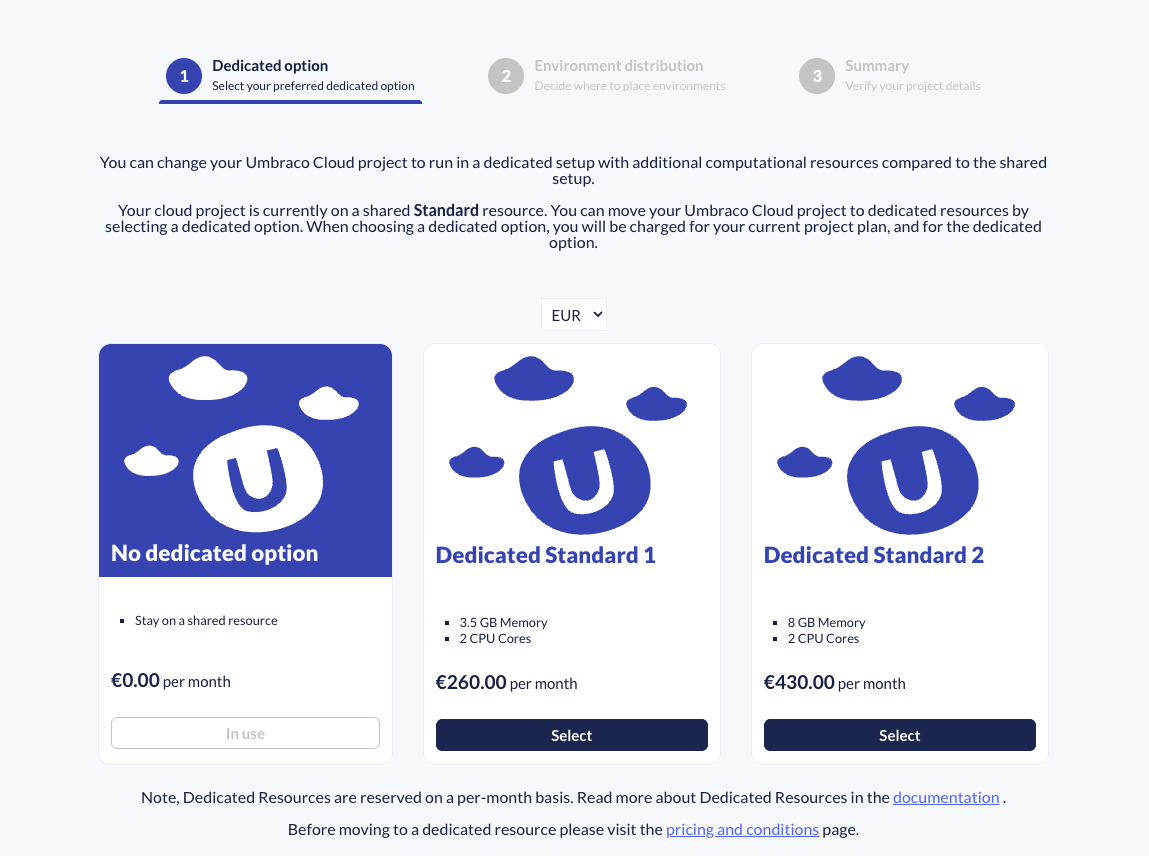
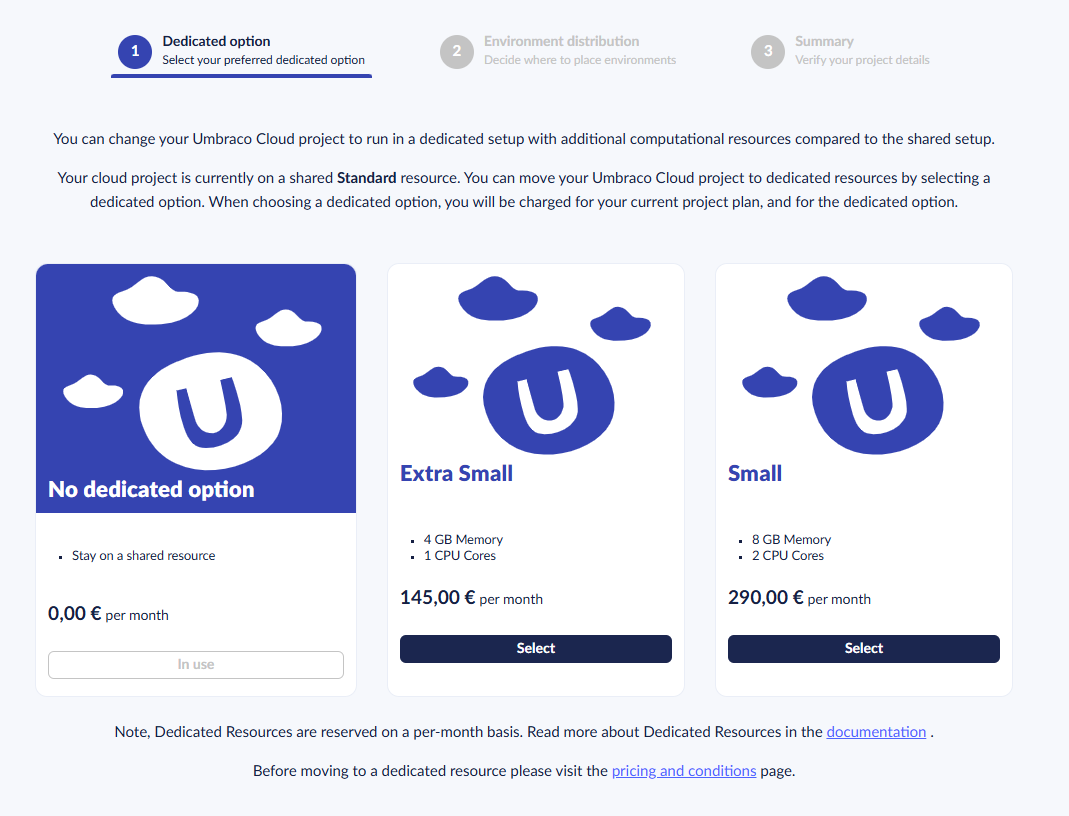
Cloud docs: Update dedicated resources plan availability and naming
Dedicated resources are now available on Starter, Standard, Professional,
and Enterprise. Link to the Umbraco Cloud scaling page for current options
and prices instead of listing them, and drop the old "Standard/Pro
Dedicated 1-3" names. Load balancing is available on all dedicated options
on Professional and Enterprise. Update the dedicated options screenshot.

diff --git a/umbraco-cloud/optimize-and-maintain-your-site/optimize-performance/load-balancing.md b/umbraco-cloud/optimize-and-maintain-your-site/optimize-performance/load-balancing.md
@@ -30,7 +30,7 @@ The Umbraco Cloud Portal checks these prerequisites automatically under `Project
 | Prerequisite | What it is | Learn more |
 | --- | --- | --- |
 | Payment plan | Load balancing is only available on projects with an **Invoiced** or **Credits** payment plan. | [Payments](../../begin-your-cloud-journey/the-cloud-portal/payments.md) |
-| Professional plan with a dedicated server | Load balancing runs on dedicated infrastructure, available from the **Professional Dedicated 1** plan and up. | [Dedicated Resources](../../build-and-customize-your-solution/set-up-your-project/project-settings/dedicated-resources.md) |
+| Professional or Enterprise plan with a dedicated server | Load balancing runs on dedicated infrastructure. It is available on all dedicated options on the **Professional** and **Enterprise** plans. | [Dedicated Resources](../../build-and-customize-your-solution/set-up-your-project/project-settings/dedicated-resources.md) |
 | Environment alone on a dedicated server | Load balancing scales every site on the server. The environment must be the only one on its dedicated server. | [Dedicated Resources](../../build-and-customize-your-solution/set-up-your-project/project-settings/dedicated-resources.md) |
 | Umbraco CMS **17.5.0** or higher | The base Umbraco CMS package meets the minimum supported version. | [Minor Upgrades](../manage-product-upgrades/product-upgrades/minor-upgrades.md) |
 | Umbraco.Cloud.Cms **17.2.0** or higher | The Umbraco Cloud CMS package meets the minimum supported version. | [Minor Upgrades](../manage-product-upgrades/product-upgrades/minor-upgrades.md) |
@@ -67,7 +67,7 @@ Load-balanced environments currently have sticky sessions enabled. Each visitor 
 
 ## Cache Configuration by Cloud Plan
 
-Load balancing is available on **Professional** plans with a dedicated server, from **Professional Dedicated 1** and up. It is not available on Starter, Standard, or shared Professional plans. If you need load balancing on a smaller plan, contact Umbraco Support to discuss upgrade paths.
+Load balancing is available on **Professional** and **Enterprise** plans with a dedicated server, on all dedicated options. It is not available on Starter, Standard, or shared Professional plans. If you need load balancing on a smaller plan, contact Umbraco Support to discuss upgrade paths.
 
 Each load-balanced environment runs against a managed Redis instance. Redis acts as the SignalR backplane and the distributed cache that keeps state consistent across all running instances. If the environment does not already have Cache enabled, Umbraco Cloud provisions a managed Redis cache as part of enabling load balancing — see [Cache Configuration](cache-configuration.md).
 
@@ -75,11 +75,9 @@ Umbraco CMS uses Microsoft's HybridCache for its distributed cache. See the [Hyb
 
 When you enable load balancing, Umbraco Cloud selects a Redis Stock Keeping Unit (SKU) automatically based on your plan. All eligible plans include High Availability (HA) and a Service Level Agreement (SLA) on the Redis instance.
 
-| Plan            | Default Redis SKU | High Availability |
-| --------------- | ----------------- | ----------------- |
-| Pro Dedicated 1 | Small+            | ✅                 |
-| Pro Dedicated 2 | Small+            | ✅                 |
-| Pro Dedicated 3 | Small+            | ✅                 |
+| Plan                                              | Default Redis SKU | High Availability |
+| ------------------------------------------------- | ----------------- | ----------------- |
+| Professional or Enterprise (any dedicated option) | Small+            | ✅                 |
 
 For the full list of available Redis SKUs and how to choose one, see [Cache Configuration](cache-configuration.md).
 

diff --git a/umbraco-cloud/build-and-customize-your-solution/set-up-your-project/project-settings/dedicated-resources.md b/umbraco-cloud/build-and-customize-your-solution/set-up-your-project/project-settings/dedicated-resources.md
@@ -8,7 +8,7 @@ In this article, you can read about how to move your Umbraco Cloud project to de
 
 Before you decide to move your Umbraco Cloud project, you need to consider a few things:
 
-* Umbraco Cloud offers dedicated resources for Standard and Professional plans. You can choose between two dedicated options for a Standard plan project and three dedicated options for a Professional plan project.
+* Umbraco Cloud offers dedicated resources on the Starter, Standard, Professional, and Enterprise plans. The dedicated options available depend on your plan. For the current options and prices per plan, see the [Umbraco Cloud scaling](https://umbraco.com/products/umbraco-cloud/umbraco-cloud-scaling/) page.
 * Moving from a shared resource to a dedicated resource will change the outgoing IP of the project. If your solution has an external service that requires whitelisting the outgoing IP, we advise you to enable the static outbound IP feature for your project and share that static outbound IP address with the third party. The static outbound IP address will not change when moving from a shared resource to a dedicated resource. For more info on static lease, visit the documentation for [external services](../../../expand-your-projects-capabilities/external-services/).
 
 ## How to move from shared to dedicated
@@ -20,7 +20,7 @@ The first step in moving to a dedicated resource is to access your project in th
 
 <figure><img src="../../../.gitbook/assets/image (10).png" alt="Dedicated resources"><figcaption><p>Dedicated resources</p></figcaption></figure>
 
-* There are currently three dedicated options to choose from for the Professional plan and two dedicated options for the Standard plan. For each of the dedicated options, you will find its name, the memory and CPU cores, and the price per month.
+* Choose from the dedicated options available on your plan. For each dedicated option, you will find its name, the memory and CPU cores, and the price per month.
 
 <figure><img src="../../../.gitbook/assets/Dedicated_Options_Standard.png" alt="Dedicated plan options for Standard plan"><figcaption><p>Dedicated plan options (Standard plan)</p></figcaption></figure>
 
@@ -32,9 +32,7 @@ Are you moving your Cloud project to a dedicated resource in the middle of the m
 
 ## Moving to a higher or lower dedicated server
 
-When on a Dedicated plan, you can scale the dedicated server up to a higher plan or scale down to a lower plan. On a Standard plan, you can scale up from Standard Dedicated 1 to Standard Dedicated 2, and scale down back to Standard Dedicated 1 again.
-
-On a Professional plan with Pro dedicated 1, you can scale it up to Pro dedicated 2 or 3. Similarly, you can scale down from higher to lower plans.
+When on dedicated resources, you can scale the dedicated server up or down between the dedicated options available on your plan. For the options available on each plan, see the [Umbraco Cloud scaling](https://umbraco.com/products/umbraco-cloud/umbraco-cloud-scaling/) page.
 
 Once it has been scaled, the environment will do a [Cold Boot](https://docs.umbraco.com/umbraco-cms/reference/notifications/hot-vs-cold-restarts?q=cold+boot#cold-start), which will restart the environment.
 
